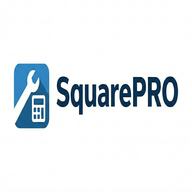
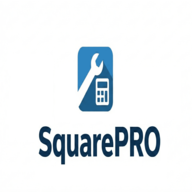
Ajustes no Login, Menu and Icones

Changed region(s): [[0.0625, 0.2188, 0.9375, 0.875]]

diff --git a/src/components/Login.jsx b/src/components/Login.jsx
@@ -10,11 +10,9 @@ export default function Login({ loginGoogle, t, setLang, lang }) {
         {/* w-32 define a largura (ajuste se ficar grande/pequeno) */}
         {/* mx-auto centraliza a imagem */}
         {/* mb-6 dá um espaço embaixo antes do título */}
-        <img src={appLogo} alt="SquarePro Logo" className="w-40 mx-auto mb-6" />
-
-        <h1 className="text-3xl font-bold mb-2">{t('appTitle')}</h1>
+        <img src={appLogo} alt="SquarePro Logo" className="w-50 mx-auto" />
         
-        <div className="flex justify-center gap-4 mb-6">
+        <div className="flex justify-center gap-4">
           <button onClick={() => setLang('en')} className={`text-xs font-bold ${lang==='en'?'underline':''}`}>EN</button>
           <button onClick={() => setLang('pt')} className={`text-xs font-bold ${lang==='pt'?'underline':''}`}>PT</button>
           <button onClick={() => setLang('es')} className={`text-xs font-bold ${lang==='es'?'underline':''}`}>ES</button>

diff --git a/src/App.jsx b/src/App.jsx
@@ -13,8 +13,8 @@ import HistoryList from './components/HistoryList'
 import Dashboard from './components/Dashboard'
 import ClientsTab from './components/ClientsTab'
 import ServicesTab from './components/ServicesTab'
-import BottomNav from './components/bottomNav' // --- NOVO
-import MenuTab from './components/MenuTab'     // --- NOVO
+import BottomNav from './components/bottomNav'
+import MenuTab from './components/MenuTab'     
 
 function App() {
   const [user, setUser] = useState(null)

diff --git a/src/components/MenuTab.jsx b/src/components/MenuTab.jsx
@@ -44,7 +44,7 @@ export default function MenuTab({ setActiveTab, t, logout }) {
         />
       </div>
       
-      <p className="text-center text-xs text-gray-400 mt-8">SquarePro v1.0.0</p>
+      <p className="text-center text-xs text-gray-400 mt-8">SquarePro v1 by DanilloGremes.com </p>
     </div>
   );
 }
